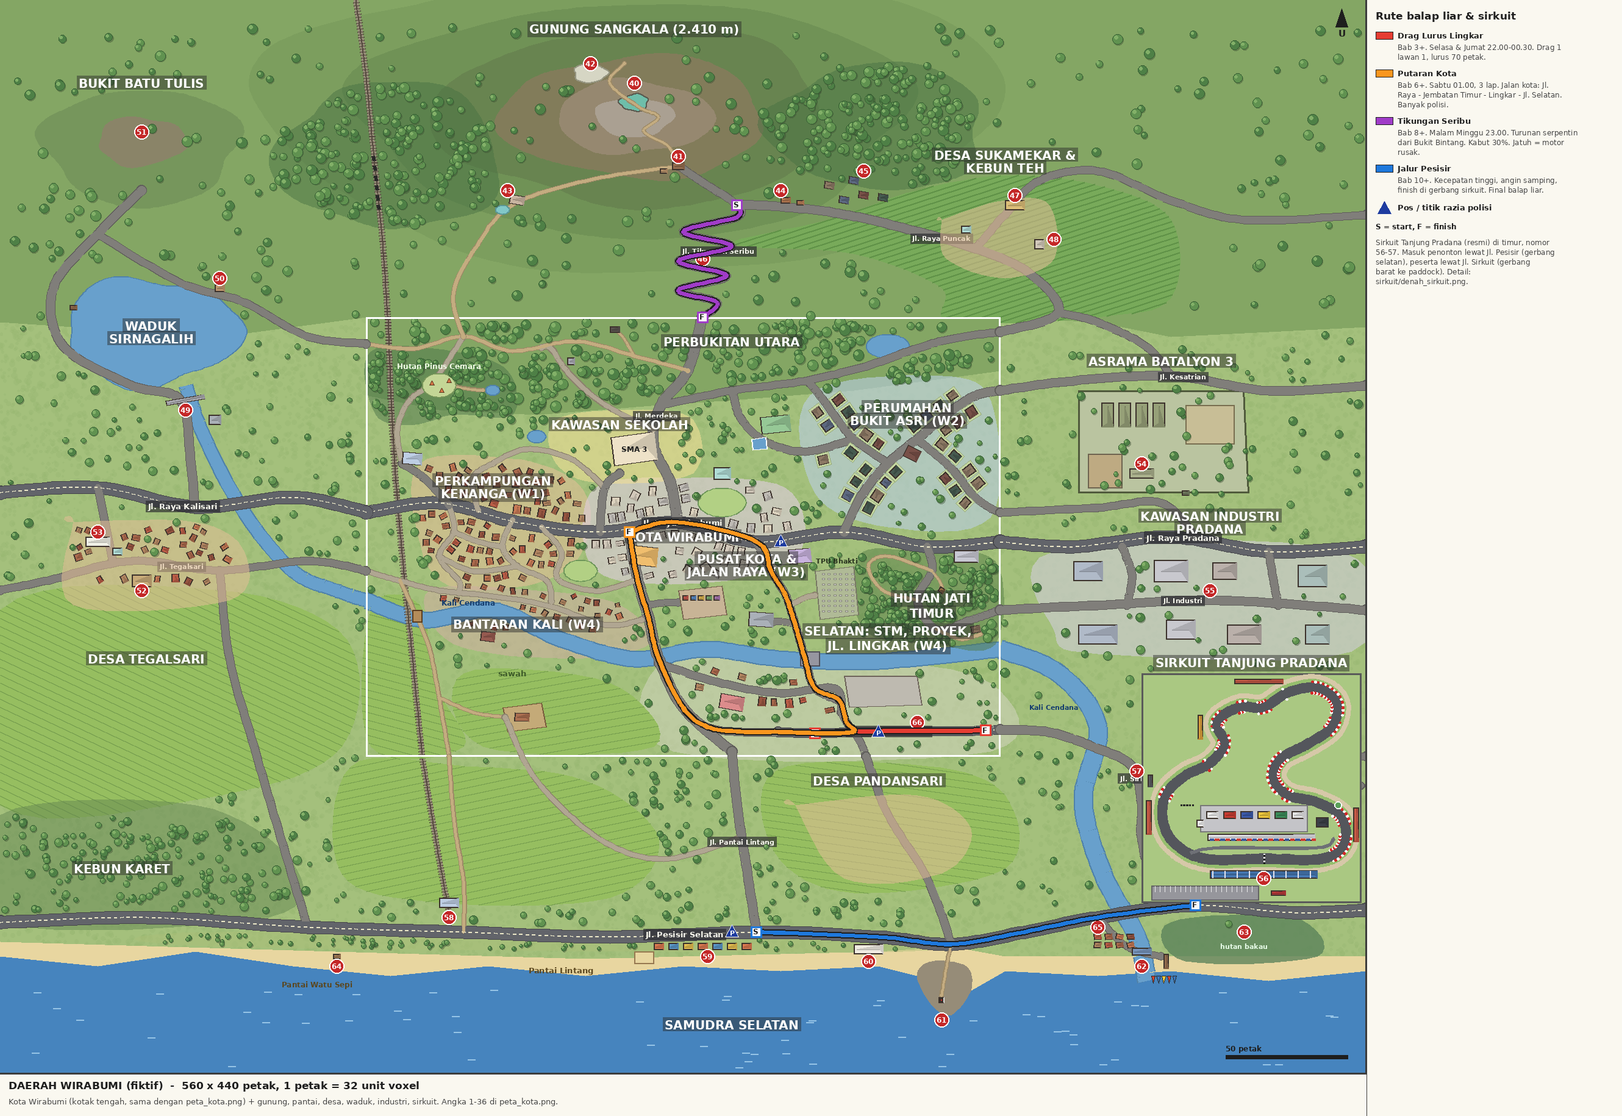
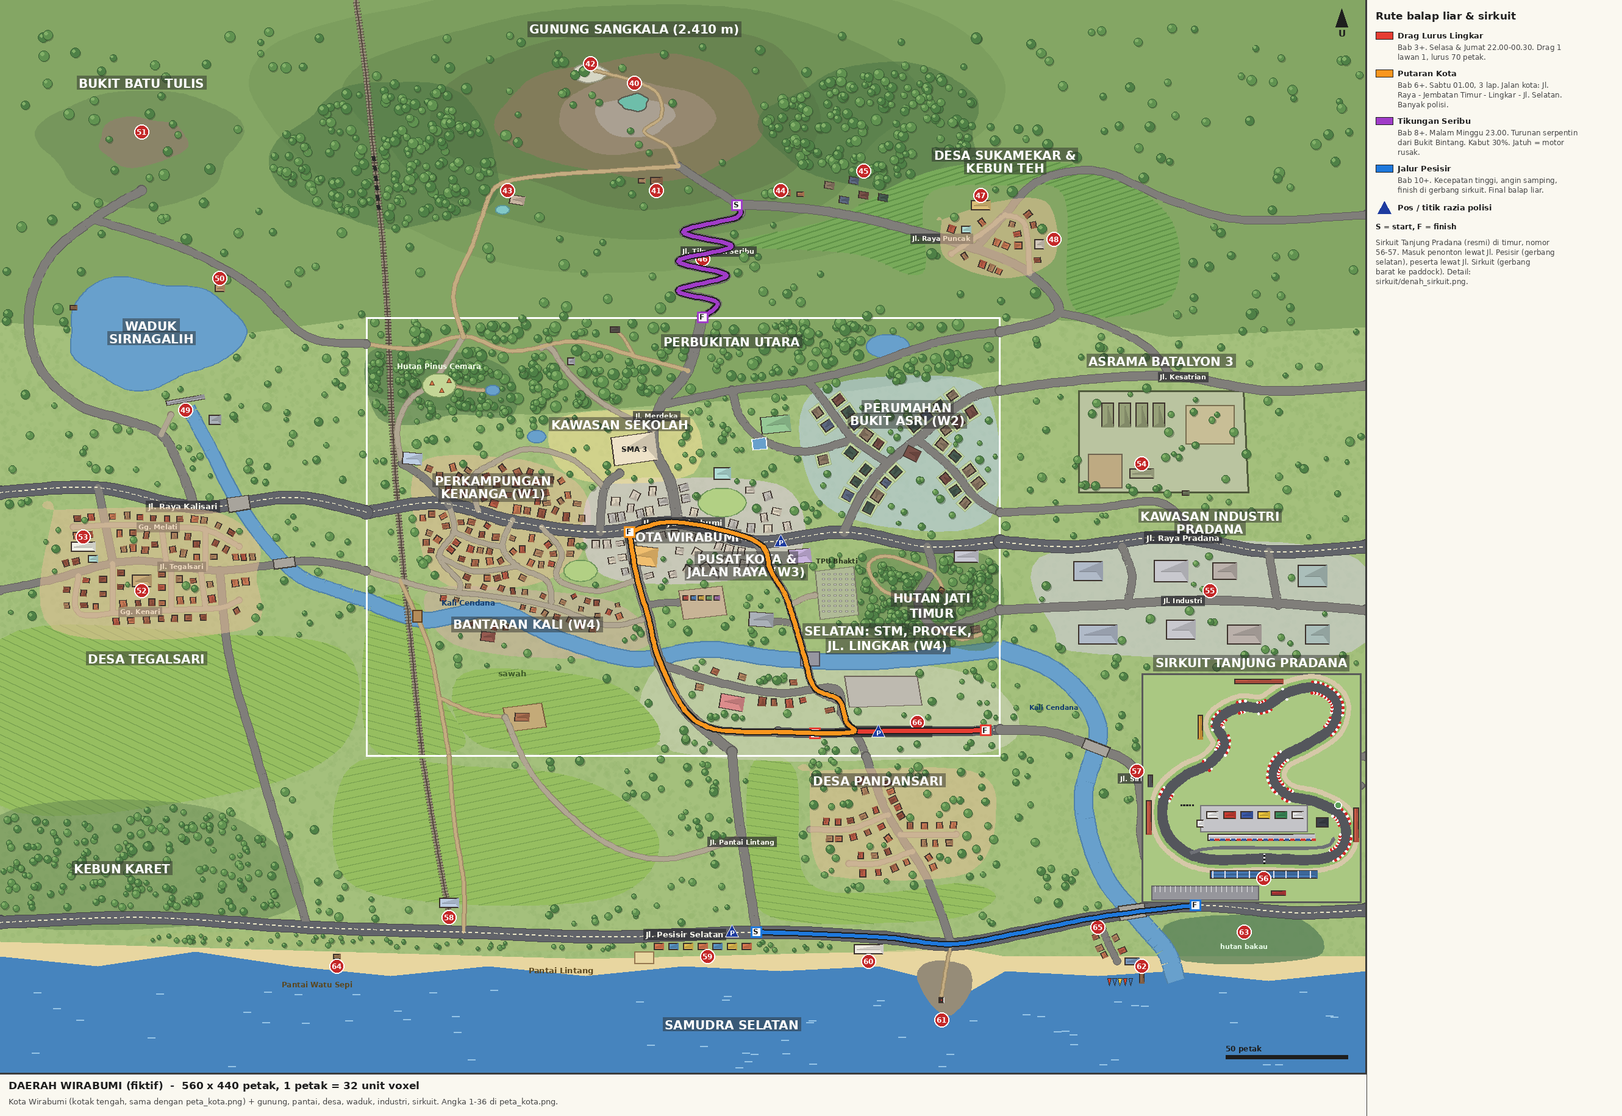
Peta luar kota: rumah desa di sepanjang jalan, gang Tegalsari, jembatan otomatis, jalan menjauhi waduk/kawah
- Rumah Tegalsari, Sukamekar, Pandansari, dan kampung nelayan memakai houses_along (menghadap jalan, jarak guide 90), bukan sebar acak
- Tegalsari diperluas + Gg. Melati, Gg. Kenari, dan 5 gang penghubung; sawah & kebun teh tidak lagi menimpa desa
- Map.jembatan + m.bridges: jembatan dibuat otomatis di tiap persilangan jalan luar kota dan sungai
- Jalan keliling waduk & jalan waduk utara, setapak air panas, dan jalur pendakian tidak lagi menembus air
- Muara Kali Cendana lewat hutan bakau; TPI, dermaga, pesantren, basecamp, warung Bukit Bintang, SMK digeser dari jalan
- Guide 86: aturan tata ruang luar kota, jembatan, target tinggi jalan pegunungan, rumput bertingkat

Claude-Session: https://claude.ai/code/session_01WWrFmNpWsGtQiX3RxPX5ND

diff --git a/docs/desain-sma/peta/peta_dunia.py b/docs/desain-sma/peta/peta_dunia.py
@@ -158,21 +158,22 @@ def peta_dunia(path="peta_dunia.png"):
     hl_timur = m.forest(blob(210, -78, 44, 26, rng), 0, tint=(70, 112, 66))
     m.area(blob(92, -100, 7, 4, rng), (214, 214, 196), outline=(150, 150, 130))     # alun-alun edelweis
     # ---------- kebun teh Sukamekar
-    rows(m, [(150, -30), (200, -26), (236, -12), (240, 2), (300, 0), (330, -8), (330, -40), (300, -54), (262, -58), (226, -52), (190, -40)],
+    rows(m, [(150, -30), (200, -26), (228, -18), (230, -50), (262, -54), (286, -50), (288, -10), (300, 0), (330, -8), (330, -40), (300, -60), (262, -64), (226, -58), (190, -40)],   # kebun mengelilingi desa (U)
+        
          TEA, (96, 146, 72), angle=-18)
     # ---------- waduk, sawah barat, karet, industri, batalyon, desa selatan
     waduk = m.area(blob(-88, 6, 36, 22, rng, k=0.14), C["water"], outline=C["water_edge"], block=True)
-    m.sawah([(-150, 120), (-60, 112), (-8, 132), (-10, 176), (-60, 196), (-150, 200)], 25)
+    m.sawah([(-150, 132), (-60, 130), (-8, 138), (-10, 176), (-60, 196), (-150, 200)], 25)
     m.sawah([(-6, 184), (40, 184), (90, 190), (120, 214), (100, 238), (30, 240), (-10, 228)], -12)
-    m.sawah([(168, 186), (230, 184), (262, 196), (262, 226), (200, 236), (168, 220)], 8)
+    m.sawah([(158, 184), (176, 186), (180, 230), (210, 236), (244, 232), (258, 238), (236, 247), (170, 247), (158, 228)], 8)   # sawah di barat & selatan desa
     karet = m.forest([(-150, 204), (-70, 200), (-30, 224), (-40, 246), (-150, 248)], 0, tint=(96, 130, 80))
     kelapa = m.forest([(-60, 252), (220, 252), (220, 260), (-60, 258)], 0, tint=(170, 190, 120))
     m.area([(282, 96), (400, 96), (404, 137), (300, 138), (282, 128)], (204, 204, 208), alpha=170)            # kawasan industri
     m.area([(292, 30), (360, 30), (362, 72), (292, 72)], (186, 196, 160), smooth=False, outline=(80, 90, 60), width=3)   # batalyon (pagar)
     m.area([(330, 248), (380, 246), (390, 262), (336, 264)], (90, 130, 90), alpha=200)                       # hutan bakau
     # ---------- sungai & rel luar kota
-    m.river([(-74, 28), (-66, 50), (-50, 80), (-30, 104), (-12, 112), (0, 116)], 5)          # dari bendungan ke Kali Cendana
-    m.river([(260, 136), (284, 146), (300, 168), (294, 198), (302, 228), (316, 254), (320, 272)], 7)   # Kali Cendana ke muara
+    sungai = [(m.river([(-73, 37), (-66, 50), (-50, 80), (-30, 104), (-12, 112), (0, 116)], 5), 5),          # dari bendungan ke Kali Cendana
+              (m.river([(260, 136), (284, 146), (300, 168), (294, 198), (302, 228), (318, 248), (328, 260), (332, 272)], 7), 7)]   # Kali Cendana ke muara (lewat bakau)
     m.rail([(9, 0), (7, -30), (4, -60), (0, -100), (-4, -130)])
     m.rail([(23, 180), (27, 205), (31, 228), (34, 244)])
     for k in range(6):   # terowongan rel
@@ -191,8 +192,9 @@ def peta_dunia(path="peta_dunia.png"):
     R = m.road
     # barat
     R([(0, 80), (-30, 74), (-70, 78), (-110, 70), (-150, 72)], "raya", name="Jl. Raya Kalisari")
-    R([(-70, 78), (-72, 56), (-76, 34), (-96, 28), (-124, 12), (-128, -12), (-110, -34), (-92, -52)], "jalan", 3.5)   # bendungan, keliling waduk, ke Batu Tulis
-    R([(0, 11), (-24, 8), (-50, -6), (-76, -14), (-110, -34)], "jalan", 3)            # stasiun/bukit ke waduk utara
+    R([(-70, 78), (-76, 62), (-84, 48), (-100, 42), (-118, 36), (-134, 20), (-138, -2), (-130, -24), (-112, -40), (-92, -52)], "jalan", 3.5)   # bendungan, keliling waduk (barat), ke Batu Tulis
+    R([(-84, 48), (-80, 40)], "gang", 2)                                               # ke puncak bendungan
+    R([(0, 11), (-24, 8), (-46, -12), (-70, -26), (-92, -34), (-112, -40)], "jalan", 3)   # stasiun/bukit ke waduk utara
     R([(0, 104), (-24, 100), (-60, 104), (-96, 100), (-130, 108), (-150, 112)], "jalan", 3, name="Jl. Tegalsari")
     R([(-60, 104), (-56, 140), (-46, 176), (-36, 210), (-24, 250)], "jalan", 3)       # Tegalsari ke pantai
     R([(-110, 70), (-104, 100)], "jalan", 3)
@@ -200,8 +202,8 @@ def peta_dunia(path="peta_dunia.png"):
     R([(138, 0), (144, -6), (128, -11), (148, -17), (128, -23), (150, -29), (130, -35), (152, -41), (152, -46), (140, -54), (128, -62)],
       "jalan", 3, name="Jl. Tikungan Seribu")
     R([(260, 6), (284, -2), (272, -18), (250, -28), (222, -36), (196, -42), (172, -45), (152, -46)], "jalan", 3.5, name="Jl. Raya Puncak")
-    R([(40, 8), (36, -10), (46, -30), (60, -46), (90, -56), (128, -62)], "setapak", 1.6)   # perkemahan - air panas - basecamp
-    R([(128, -62), (124, -70), (114, -76), (120, -82), (112, -86), (100, -96), (106, -104)], "setapak", 1.2)   # jalur pendakian
+    R([(40, 8), (36, -10), (44, -30), (48, -42), (54, -54), (72, -58), (98, -60), (128, -62)], "setapak", 1.6)   # perkemahan - air panas - basecamp
+    R([(128, -62), (124, -70), (114, -76), (121, -82), (120, -91), (112, -96), (102, -99), (94, -101)], "setapak", 1.2)   # jalur pendakian (memutar danau kawah)
     R([(250, -28), (262, -42), (276, -56), (300, -60), (330, -48), (360, -40), (410, -42)], "jalan", 3)          # desa ke timur
     # timur
     R([(260, 92), (290, 94), (330, 90), (370, 96), (410, 94)], "raya", name="Jl. Raya Pradana")
@@ -215,33 +217,56 @@ def peta_dunia(path="peta_dunia.png"):
     R([(-150, 248), (-90, 246), (-24, 250), (40, 252), (100, 254), (160, 252), (210, 254), (240, 257), (270, 252), (300, 246),
        (340, 241), (380, 244), (410, 243)], "raya", name="Jl. Pesisir Selatan")
     R([(150, 178), (152, 200), (156, 226), (160, 252)], "jalan", 3.5, name="Jl. Pantai Lintang")
-    R([(205, 180), (214, 204), (230, 230), (240, 257)], "jalan", 3)
+    jl_pd = R([(205, 180), (214, 204), (230, 230), (240, 257)], "jalan", 3)
     R([(34, 180), (36, 206), (40, 232), (40, 252)], "setapak", 1.4)
     R([(57, 164), (70, 190), (96, 214), (122, 222), (152, 214)], "gang", 2)            # kandang - desa - jalan pantai
     R([(410, 180), (390, 182)], "jalan", 3)                                             # jalan servis sirkuit timur (keluar daerah)
     R([(408, 192), (398, 191)], "jalan", 2.4)
-    R([(300, 246), (312, 258), (326, 262)], "jalan", 2.6)                               # ke TPI/dermaga
+    tpi = R([(300, 246), (304, 256), (308, 264)], "jalan", 2.6)                          # ke kampung nelayan, TPI & dermaga
     R([(240, 257), (238, 266), (236, 278)], "setapak", 1.2)                              # ke mercusuar
+    # gang desa (kampung padat: rumah menghadap gang, guide 90)
+    gang_tg = [R([(-120, 86), (-100, 85), (-84, 86), (-66, 87), (-52, 94)], "gang", 2, name="Gg. Melati"),
+               R([(-84, 86), (-82, 101)], "gang", 2),
+               R([(-66, 87), (-66, 103)], "gang", 2),
+               R([(-118, 106), (-118, 121), (-100, 121), (-80, 120), (-60, 119), (-52, 116)], "gang", 2, name="Gg. Kenari"),
+               R([(-104, 101), (-104, 121)], "gang", 2),
+               R([(-80, 101), (-80, 120)], "gang", 2),
+               R([(-68, 103), (-66, 119)], "gang", 2)]
+    gang_sm = [R([(240, -26), (252, -34), (262, -42)], "gang", 2),
+               R([(262, -42), (270, -38), (272, -18)], "gang", 2)]
+    gang_pd = [R([(214, 204), (198, 210), (182, 210)], "gang", 2),
+               R([(219, 212), (232, 212), (242, 212)], "gang", 2),
+               R([(224, 219), (210, 224), (198, 224)], "gang", 2)]
     saved = m.roads; m.roads = saved[n0:]; m.draw_roads(); m.roads = saved
+    for sm, wd, _f, _e, kind, name in saved[n0:]:
+        rl = LineString(sm)
+        for rs, rw in sungai:
+            x = rl.intersection(LineString(rs))
+            for p in getattr(x, "geoms", [x]):
+                if p.is_empty:
+                    continue
+                d = rl.project(p)
+                a, b = rl.interpolate(max(0, d - 0.6)), rl.interpolate(min(rl.length, d + 0.6))
+                m.jembatan(p.x, p.y, math.degrees(math.atan2(b.y - a.y, b.x - a.x)), rw + 4, wd + 1.2, name)
     # ---------- bangunan & tempat luar kota
     B = m.bldg
     # utara
-    B(128, -62, 5, 3, 0, (150, 110, 80)); B(122, -60, 3, 2, 0, (190, 150, 110))       # basecamp pendakian + warung
+    B(119, -56, 5, 3, 0, (150, 110, 80)); B(113, -56, 3, 2, 0, (190, 150, 110))       # basecamp pendakian + warung
     B(62, -48, 6, 4, 10, (200, 180, 160)); m.ellipse_area(56, -44, 3, 2, (130, 200, 200), outline=(90, 150, 150))  # air panas
-    B(172, -48, 4, 2.5, 0, (180, 120, 80)); B(178, -47, 3, 2, 0, (190, 130, 90))      # warung jagung bakar Bukit Bintang
+    B(172, -51, 4, 2.5, 0, (180, 120, 80)); B(178, -50.5, 3, 2, 0, (190, 130, 90))      # warung jagung bakar Bukit Bintang
     for k, (x, y) in enumerate([(196, -48), (204, -50), (212, -49), (190, -54), (200, -56)]):
         B(x, y, 4, 3, 8, C["roof_perum"][k % 4])                                        # villa
     reg_desa = Polygon([(236, -40), (262, -48), (280, -46), (282, -24), (262, -16), (238, -24)])
     m.area(list(reg_desa.exterior.coords), DIST["kampung"], alpha=140)
-    B(266, -46, 8, 4, 0, (220, 190, 120)); B(246, -36, 4, 3, 0, (176, 220, 214))       # SMK Pariwisata, masjid desa
+    B(252, -46, 8, 4, 0, (220, 190, 120)); B(246, -36, 4, 3, 0, (176, 220, 214))       # SMK Pariwisata, masjid desa
     B(276, -30, 4, 4, 0, (210, 200, 186))                                              # pabrik teh
     # barat
     B(-74, 34, 16, 2, -10, (170, 170, 176)); B(-62, 42, 5, 4, 0, (170, 176, 184))      # bendungan & PLTA
     B(-120, -4, 3, 2, 0, (150, 110, 80)); B(-60, -12, 4, 3, 0, (190, 150, 110))        # dermaga perahu, warung ikan bakar
-    reg_tg = Polygon([(-120, 84), (-70, 84), (-50, 96), (-56, 116), (-120, 118)])
+    reg_tg = Polygon([(-128, 79), (-66, 79), (-45, 92), (-45, 106), (-50, 128), (-128, 128)])
     m.area(list(reg_tg.exterior.coords), DIST["kampung"], alpha=140)
     B(-92, 108, 8, 5, 0, (200, 170, 120))                                              # pasar hewan
-    B(-110, 92, 10, 4, 0, (240, 240, 230)); B(-102, 96, 4, 3, 0, (176, 220, 214))     # pesantren
+    B(-116, 94, 10, 4, 0, (240, 240, 230)); B(-112, 99, 4, 3, 0, (176, 220, 214))     # pesantren
     # timur
     for k in range(4):
         B(304 + k * 7, 40, 5, 10, 0, (150, 160, 120))                                  # barak
@@ -252,7 +277,7 @@ def peta_dunia(path="peta_dunia.png"):
                                       (300, 130, 16, 8), (334, 128, 12, 8), (360, 130, 14, 8), (390, 130, 10, 8)]):
         B(x, y, w, h, 0, [(176, 186, 200), (200, 200, 206), (186, 176, 170), (170, 190, 186)][k % 4])
     # selatan
-    reg_pd = Polygon([(176, 200), (226, 196), (248, 210), (236, 228), (196, 230)])
+    reg_pd = Polygon([(182, 186), (248, 186), (258, 206), (246, 228), (198, 230), (184, 222)])
     m.area(list(reg_pd.exterior.coords), DIST["kampung"], alpha=140)
     B(34, 240, 8, 4, 0, (190, 206, 228))                                               # Stasiun Lintang
     for k in range(7):
@@ -260,18 +285,30 @@ def peta_dunia(path="peta_dunia.png"):
     m.area([(110, 260), (118, 260), (118, 265), (110, 265)], SAND, smooth=False, outline=(150, 120, 80))   # voli pantai
     B(206, 259, 12, 4, 0, (240, 236, 226))                                             # Hotel Samudra
     B(236, 280, 2.4, 2.4, 0, (250, 250, 250)); B(236, 280, 1.2, 1.2, 0, (210, 50, 50), roof=False)   # mercusuar
-    B(318, 260, 8, 3, 0, (120, 150, 190)); B(328, 264, 2, 6, 0, (150, 110, 80))         # TPI & dermaga
+    B(314, 264, 6, 3, 0, (120, 150, 190)); B(318, 270, 2, 6, 0, (150, 110, 80))         # TPI & dermaga
     for k in range(5):
-        X, Y = m.P([(322 + k * 2.2, 270)])[0]
+        X, Y = m.P([(304 + k * 2.2, 271)])[0]
         m.d.polygon([(X, Y), (X + 1.6 * m.s, Y), (X + 0.8 * m.s, Y + 3 * m.s)], fill=[(210, 70, 50), (60, 120, 190), (240, 200, 60)][k % 3], outline=(40, 40, 40))
     for k in range(8):
-        B(300 + (k % 4) * 4.5, 254 + (k // 4) * 3.4, 3, 2.4, rng.uniform(-15, 15), C["roof_kampung"][k % 5])   # kampung nelayan
+        rng.uniform(-15, 15)                                                           # (seed tetap) kampung nelayan kini di sepanjang jalan TPI
     B(-12, 262, 3, 2, 0, (170, 130, 90))                                               # gubuk Pantai Watu Sepi
     sirkuit(m)
     # ---------- rumah desa & pohon
-    m.fill_houses(reg_desa, 26)
-    m.fill_houses(reg_tg, 30)
-    m.fill_houses(reg_pd, 24)
+    # rumah: hanya di sepanjang jalan/gang, menghadap jalan, jarak dari tepi aspal >= 1 petak (guide 90)
+    kampung = dict(spacing=(2.0, 2.5), depth=(2.4, 3.2), width=(2.2, 3.0), gap=(1.0, 1.3), jitter=4, skip=0.04)
+    desa = dict(spacing=(2.6, 3.6), depth=(2.6, 3.4), width=(2.4, 3.2), gap=(1.4, 2.4), jitter=4, skip=0.08)
+    by_name = {r[5]: r[0] for r in m.roads if r[5]}
+    for g in gang_tg:
+        m.houses_along(g, reg_tg, **kampung)
+    m.houses_along(by_name["Jl. Tegalsari"], reg_tg, **desa)
+    for g in gang_sm:
+        m.houses_along(g, reg_desa, **kampung)
+    m.houses_along(by_name["Jl. Raya Puncak"], reg_desa, **desa)
+    for g in gang_pd:
+        m.houses_along(g, reg_pd, **kampung)
+    m.houses_along(jl_pd, reg_pd, **desa)
+    reg_nl = Polygon([(294, 250), (316, 250), (316, 268), (294, 268)])
+    m.houses_along(tpi, reg_nl, **kampung)                                             # kampung nelayan
     for g in (hl_barat, hl_timur):
         m.trees(g, 160, (1.2, 2.2))
     m.trees(karet, 140, (1.0, 1.6))
@@ -300,19 +337,19 @@ def peta_dunia(path="peta_dunia.png"):
     # ---------- penanda (lanjutan nomor peta kota)
     pts = [
         (110, -96, "Kawah Sangkala & danau kawah (puncak, Bab 12 kemah)"),
-        (128, -66, "Basecamp pendakian & pos 1"),
+        (119, -52, "Basecamp pendakian & pos 1"),
         (92, -104, "Alun-alun Edelweis (kemah puncak)"),
         (58, -52, "Pemandian air panas Sangkala"),
         (170, -52, "Bukit Bintang: warung jagung bakar, lampu kota malam"),
         (204, -60, "Kawasan villa Puncak"),
         (138, -24, "Jl. Tikungan Seribu: balap liar turunan (Bab 8+)"),
-        (266, -50, "SMK Pariwisata (sekolah Wulan) & Desa Sukamekar"),
+        (252, -50, "SMK Pariwisata (sekolah Wulan) & Desa Sukamekar"),
         (282, -32, "Pabrik teh tua (tur & kerja paruh waktu)"),
         (-74, 38, "Bendungan & PLTA Sirnagalih"),
         (-60, -16, "Warung ikan bakar & dermaga perahu waduk"),
         (-92, -76, "Batu Tulis (prasasti, rahasia)"),
         (-92, 112, "Pasar hewan Tegalsari"),
-        (-110, 88, "Pondok pesantren Darul Falah"),
+        (-116, 90, "Pondok pesantren Darul Falah"),
         (318, 60, "Asrama Batalyon 3 (rumah Dimas): gerbang jaga"),
         (346, 112, "Kawasan Industri Pradana (kerja shift)"),
         (368, 230, "Sirkuit Tanjung Pradana: tribun utama & pit"),

diff --git a/docs/desain-sma/peta/peta_organik.py b/docs/desain-sma/peta/peta_organik.py
@@ -97,6 +97,7 @@ class Map:
         self.d = _Shift(self.raw, -x0 * s, -y0 * s) if (x0 or y0) else self.raw
         self.blocked = []
         self.roads = []
+        self.bridges = []
         self.forests = []
         self.legend = []
         self.title, self.sub = title, sub
@@ -202,6 +203,20 @@ class Map:
                 x, y = p.x * self.s - (tb[2] - tb[0]) / 2, p.y * self.s - (tb[3] - tb[1]) / 2 - 1
                 self.d.rectangle((x - 3, y - 1, x + tb[2] - tb[0] + 3, y + tb[3] - tb[1] + 4), fill=(40, 40, 44, 170))
                 self.d.text((x, y), name, font=f, fill=(250, 250, 240))
+
+    def jembatan(self, x, y, ang, length, width, name=None):
+        """Dek jembatan di (x, y) searah jalan (ang derajat). Dicatat di self.bridges untuk game."""
+        g = rotate(box(x - length / 2, y - width / 2, x + length / 2, y + width / 2), ang, origin=(x, y))
+        self.d.polygon(self.P(list(g.exterior.coords)), fill=(168, 164, 156), outline=(70, 66, 60), width=2)
+        a = math.radians(ang)
+        ux, uy = math.cos(a), math.sin(a)
+        nx, ny = -uy, ux
+        for sd in (-1, 1):   # pagar
+            o = sd * (width / 2 - 0.25)
+            self.d.line(self.P([(x - ux * length / 2 + nx * o, y - uy * length / 2 + ny * o),
+                                (x + ux * length / 2 + nx * o, y + uy * length / 2 + ny * o)]), fill=(60, 56, 50), width=2)
+        self.bridges.append(dict(x=round(x, 2), y=round(y, 2), a=round(a, 4), len=round(length, 2), w=round(width, 2), name=name))
+        return g
 
     # ---------- bangunan
     def bldg(self, cx, cy, w, h, ang=0, color=(200, 180, 160), roof=True, block=True, outline=(60, 50, 44)):

diff --git a/docs/desain-sma/guide/86-peta-dunia.md b/docs/desain-sma/guide/86-peta-dunia.md
@@ -26,11 +26,11 @@ Tempat yang dulu "luar peta" (Desa Sukamekar rumah Wulan, Asrama Batalyon rumah 
 | **Desa Sukamekar & kebun teh** | Timur laut, x 150..330, y -60..0 | Hijau, pagi berkabut | SMK Pariwisata & rumah Wulan (47), pabrik teh tua (48), kebun teh luas |
 | **Bukit Batu Tulis** | Barat laut | Batu besar, misterius | Prasasti (51, rahasia), jalan tanah keliling |
 | **Waduk Sirnagalih** | Barat, x -125..-50, y -15..30 | Danau besar, angin | Bendungan & PLTA (49), dermaga perahu & warung ikan bakar (50). Sungainya jadi hulu Kali Cendana |
-| **Desa Tegalsari** | Barat, x -120..-50, y 84..118 | Desa sawah | Pasar hewan (52), pesantren (53), sawah luas, kebun karet di selatannya |
+| **Desa Tegalsari** | Barat, x -128..-45, y 79..128 | Kampung padat bergang | Pasar hewan (52), pesantren (53), Gg. Melati (utara) & Gg. Kenari (selatan) + 5 gang penghubung, sawah luas di selatannya, kebun karet lebih jauh |
 | **Asrama Batalyon 3** | Timur, x 292..362, y 30..72 | Rapi, disiplin | Rumah Dimas, barak, lapangan apel, lapangan tembak, gerbang jaga (54) |
 | **Kawasan Industri Pradana** | Timur, x 282..404, y 96..138 | Pabrik, truk, shift malam | Kerja shift (55), jalan lebar sepi malam |
 | **Sirkuit Tanjung Pradana** | Tenggara, x 318..408, y 146..240 | Ramai saat event | Sirkuit resmi lengkap (56-57), lihat segmen 87 |
-| **Desa Pandansari** | Selatan kota, x 168..262, y 184..236 | Sawah, rumah desa | Jalan desa ke pantai |
+| **Desa Pandansari** | Selatan kota, x 182..258, y 186..230 | Rumah desa, sawah di barat & selatan | Jalan desa ke pantai + 3 gang |
 | **Pantai selatan** | Seluruh tepi selatan, y 250..290 | Ombak, angin, warung | Stasiun Lintang (58), Pantai Lintang (59), Hotel Samudra (60), Tanjung Karang & mercusuar (61), TPI & kampung nelayan (62), hutan bakau (63), Pantai Watu Sepi (64) |
 
 Nomor dalam kurung = penanda di peta daerah. Nomor 1-36 ada di peta kota.
@@ -80,3 +80,69 @@ Peta kota disesuaikan dengan yang sudah dibangun di game 3D:
 - Jalan lingkaran tertutup (sirkuit lama) sudah tidak ada di `peta_kota()`. Kode yang mencari `roads.find(r => r.closed)`
   tidak akan menemukan apa-apa; sirkuit baru punya titik lintasan sendiri (`TRACK` dan `PIT` di `peta_dunia.py`).
 - Gunung digambar sebagai kontur bertingkat: di game bisa jadi tanah naik bertahap (tiap kontur +2..4 petak).
+
+## Tata ruang luar kota (revisi): bangunan, air, desa, tanjakan
+
+Aturan segmen 90 (jarak dari jalan, menghadap jalan, akses, parkir di dalam kavling) berlaku juga di luar kota.
+
+### Rumah desa
+
+- Rumah desa **tidak lagi ditebar acak**. Semua rumah ditaruh di sepanjang jalan atau gang. Sisi panjang rumah sejajar jalan
+  dan pintunya menghadap jalan terdekat.
+- Jarak dari tepi aspal: 1-1,3 petak di gang kampung dan 1,4-2,4 petak di jalan desa. Antar rumah 0-0,5 petak di gang
+  (kampung padat) dan 0,6-1,6 petak di jalan desa.
+- Sawah, kebun teh, dan sungai tidak ditimpa rumah. Kebun teh Sukamekar sekarang berbentuk U yang mengelilingi desa,
+  dan sawah Pandansari ada di barat dan selatan desa.
+- **Tegalsari** (kampung paling padat di luar kota) punya 6 jalur:
+  - Jl. Tegalsari (jalan utama)
+  - Gg. Melati, sejajar di utaranya
+  - Gg. Kenari, sejajar di selatannya
+  - 5 gang pendek yang menyambungkan ketiganya
+
+  Pesantren pindah ke (-116, 94) dan masjidnya ke (-112, 99), keduanya menghadap Jl. Tegalsari.
+- Kampung nelayan berjajar di dua sisi jalan TPI. TPI dan dermaga pindah ke barat muara.
+
+### Jalan vs sungai dan danau
+
+| Kasus | Aturan | Contoh di peta |
+|---|---|---|
+| Jalan menyeberang sungai | Wajib jembatan (`m.jembatan`). Panjang dek = lebar sungai + 4 petak, lebar dek = lebar jalan + 1,2 petak, pagar di dua sisi | Jl. Raya Kalisari & Jl. Tegalsari (sungai bendungan), Jl. Sirkuit & Jl. Pesisir Selatan (Kali Cendana) |
+| Jalan di tepi danau | Badan jalan minimal 4 petak dari garis air, tidak boleh memotong danau | Jalan keliling Waduk Sirnagalih lewat sisi barat. Jalan waduk utara digeser ke utara |
+| Setapak ke kolam / danau kawah | Berhenti atau memutar di tepi, tidak menembus air | Setapak air panas, jalur pendakian memutar danau kawah |
+| Bangunan dekat air | Tidak boleh di atas air, kecuali dermaga, bendungan, dan mercusuar | Dermaga waduk, dermaga TPI |
+
+Semua jembatan dicatat di `m.bridges` (x, y, sudut, panjang, lebar, nama jalan). `peta_dunia()` mengembalikan `m`, jadi
+skrip ekspor game cukup menyalin `m.bridges`. Persilangan jalan dan sungai dicari otomatis, jadi kalau jalan atau sungai
+digeser, jembatannya ikut pindah.
+
+### Tanjakan jalan pegunungan
+
+Kontur gunung memberi tinggi dasar. Di jalan pegunungan, tanjakan dibuat lebih terasa dengan target tinggi berikut
+(tinggi relatif terhadap jalan kota, dalam petak):
+
+| Titik | Tinggi |
+|---|---|
+| Kaki Jl. Tikungan Seribu (138, 0) | 0 |
+| Tikungan ke-4 (128, -23) | +10 |
+| Bukit Bintang / ujung serpentin (152, -46) | +22 |
+| Basecamp (128, -62) | +26 |
+| Pertigaan Jl. Raya Puncak (250, -28) dan Desa Sukamekar | +16 |
+| Alun-alun Edelweis dan kawah | +40 (setapak saja) |
+
+- Kemiringan maksimum:
+  - jalan pegunungan (Tikungan Seribu, Raya Puncak, jalan desa ke timur) 18%
+  - setapak pendakian 35%
+  - jalan lain tetap 10%
+- Di tikungan tajam serpentin, buat bagian datar kira-kira 3 petak supaya motor bisa berbelok.
+- Pinggir jalan pegunungan diberi tebing di sisi atas dan pagar atau batu di sisi jurang.
+
+### Rumput dan tanah
+
+Rumput dibuat bertingkat supaya tidak datar:
+
+- tekstur dasar dengan variasi warna
+- rumpun rumput pendek (tinggi 0,2-0,4 petak) yang rapat di tepi jalan, pagar, dan kaki bangunan
+- ilalang tinggi (0,6-1 petak) di lereng, tepi sungai, dan lahan kosong
+- bunga liar sesekali
+
+Rumput dibuat lebih rapat di lereng gunung. Di jalan tanah, setapak, dan halaman yang sering diinjak, rumputnya menipis.
